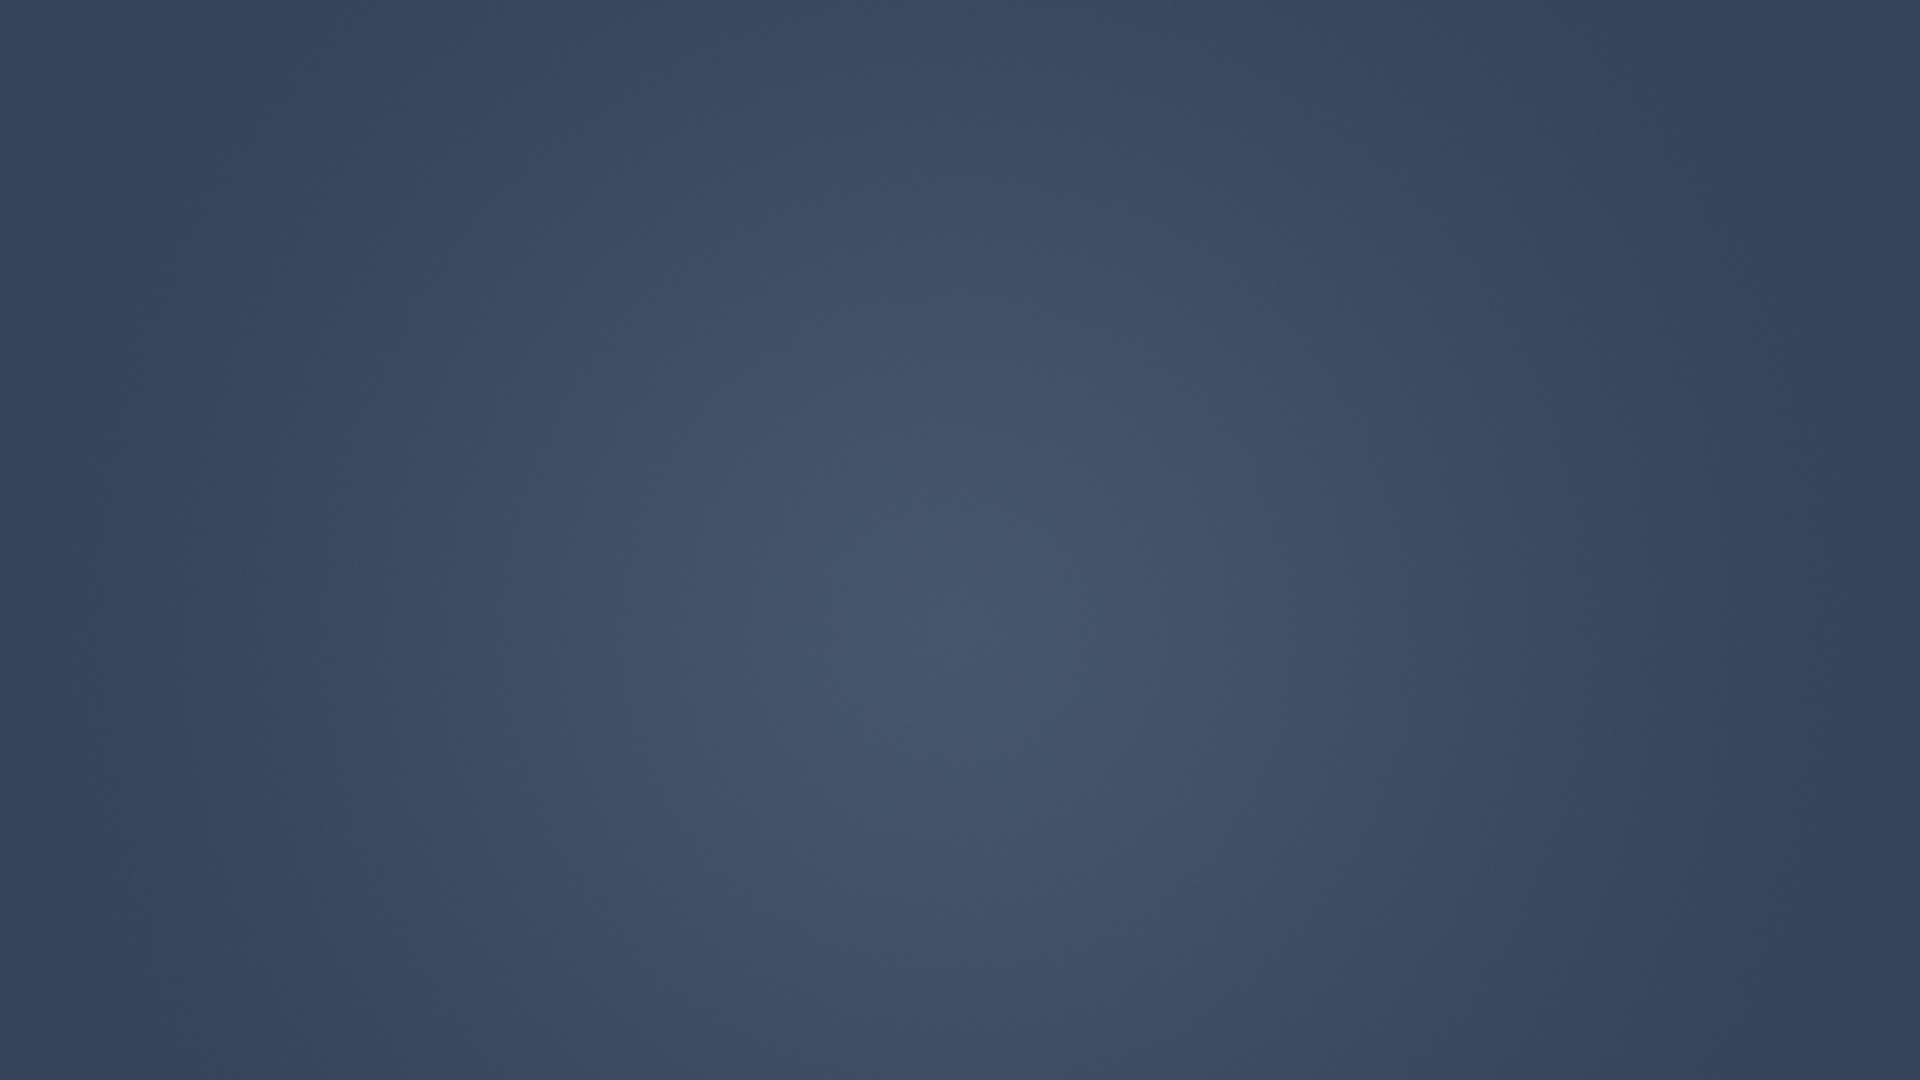
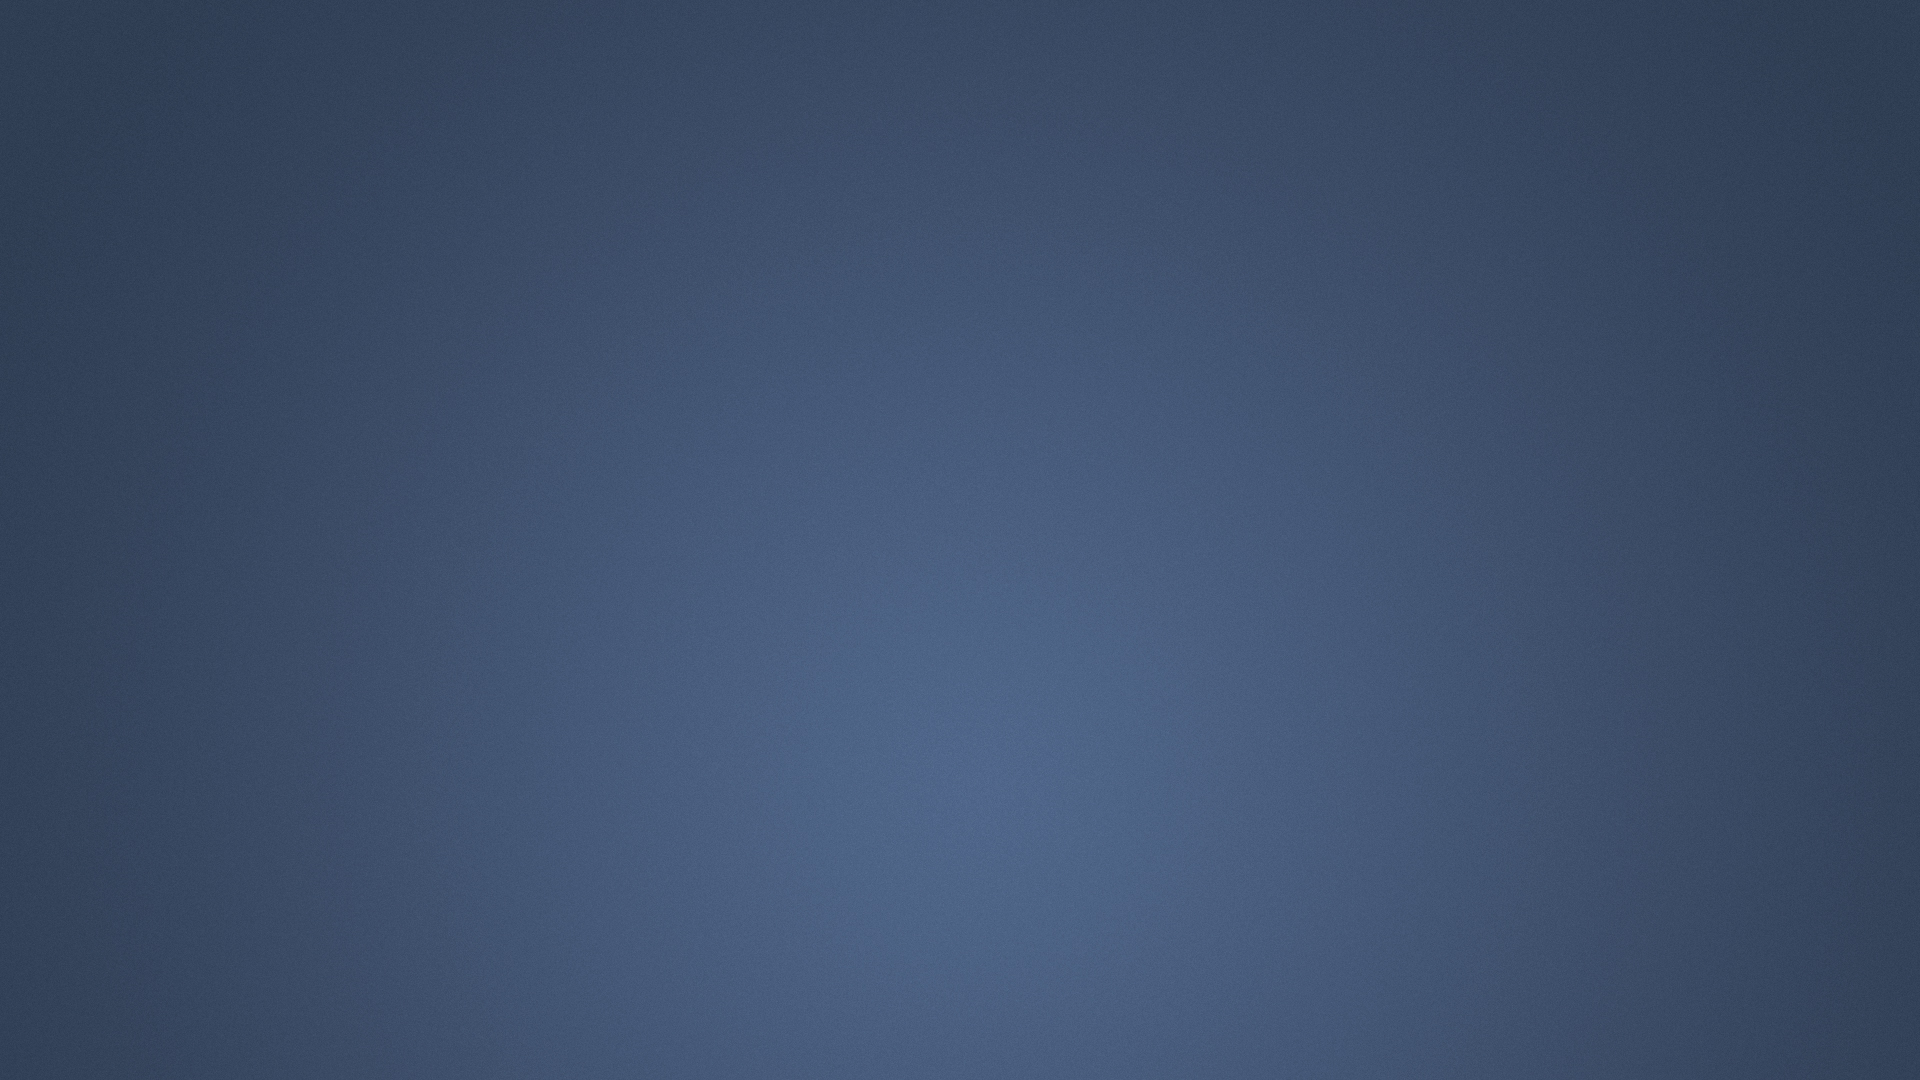
footer edited

Changed region(s): [[0.3125, 0.4889, 0.7188, 1.0]]

diff --git a/css/footer.css b/css/footer.css
@@ -3,9 +3,6 @@
 
 
 
-#pageFooter {
-	
-}
 
 
 #pageFooterSlider {
@@ -39,10 +36,10 @@
 	background-color: #bababa;
 	background-image: url('../img/footerButtonBack.jpg');   
 	background-repeat: repeat-x;
-	
+	/*
 	-moz-box-shadow:    0px 0px 1px #3d3d3d;
 	-webkit-box-shadow: 0px 0px 1px #3d3d3d;
-	box-shadow:         0px 0px 1px #3d3d3d;
+	box-shadow:         0px 0px 1px #3d3d3d;*/
 }
 
 #pageFooterSliderButton:hover {
@@ -54,9 +51,8 @@
 	height: 300px;
 	width: 100%;
 	
-	-moz-box-shadow:    0px 0px 10px #3d3d3d;
-	-webkit-box-shadow: 0px 0px 10px #3d3d3d;
-	box-shadow:         0px 0px 10px #3d3d3d;
+
+	
 	
 	background: #949494; /* Old browsers */
 	background: -moz-linear-gradient(top,  #a9a9a9 8%, #5b5b5b 100%); /* FF3.6+ */
@@ -107,7 +103,17 @@
 }
 
 
-#pageFooterContent {
+
+
+
+
+
+
+
+
+
+
+#pageFooter {
 	position: fixed;
 	left: 0;
 	right: 0;
@@ -116,21 +122,24 @@
 	font-weight: 300px;
 	line-height: 30px;
 	letter-spacing: 0.2px;
-	
 	background-image: url('../img/footerBack.gif');
-	
-	/*
-	-moz-box-shadow:    0px 0px 6px #3d3d3d;
-	-webkit-box-shadow: 0px 0px 6px #3d3d3d;
-	box-shadow:         0px 0px 6px #3d3d3d;
-	*/
 	z-index: 15;
-	
 	text-align: center;
-	
+	-moz-box-shadow:    0px 2px 7px #1d1d1d;
+	-webkit-box-shadow: 0px 2px 7px #1d1d1d;
+	box-shadow:         0px 2px 7px #1d1d1d;
 }
 
-#pageFooterContent p {
+#pageFooter a {
+	color: #3b4555;
+}
+
+#pageFooter a:hover {
+	color: #b1bcce;
+}
+
+
+#pageFooter p {
 	color: #3b4555;
 }
 

diff --git a/css/main.css b/css/main.css
@@ -11,28 +11,10 @@ html {
 }
 
 body {
-	/* fallback */ 
 	background-color: #ddd;
-	
-	
-	/* Safari 4-5, Chrome 1-9 */ 
-	/* Can't specify a percentage size? Laaaaaame. */ 
-	/* background: -webkit-gradient(radial, center center, 0, center center, 460, from(#ddd), to(#ccc)); */
-	
-	/* Safari 5.1+, Chrome 10+ */ 
-	/*
-	background: -webkit-radial-gradient(circle, #eee, #b0b0b0);
-	
-	/* Firefox 3.6+ */ 
-	/*background: -moz-radial-gradient(circle, #eee, #b0b0b0);
-	
-	/* IE 10 */ 
-	/*background: -ms-radial-gradient(circle, #eee, #b0b0b0);
-	*/
-	
 	background-image: url('../img/background.jpg');
-	
-	/* Opera cannot do radial gradients yet */
+	background-position: top center;
+	background-repeat: no-repeat;
 }
 
 h1 {

diff --git a/parts/footer.php b/parts/footer.php
@@ -1,37 +1,36 @@
-<footer id="pageFooter">
-	<div id="pageFooterSlider">
-		<div id="pageFooterSliderButton"></div>
-		<div id="pageFooterSliderContent">
-			<div class="wrapper">
-				<div id="pageFooterLeft">
-					<h2>Kennenlernen</h2>
-					<p>AFFE</p>
-				</div>
-				<div id="pageFooterMiddle">
-					<h2>Mitmachen</h2>
-					<p>Lorem ipsum dolor sit amet, consectetur adipisici elit. Lorem ipsum dolor sit amet, consectetur adipisici elit. Lorem ipsum dolor sit amet, consectetur adipisici elit. Lorem ipsum dolor sit amet, consectetur adipisici elit. Lorem ipsum dolor sit amet, consectetur adipisici elit.</p>
-				</div>
-				<div id="pageFooterRight">
-					<h2>Empfehlen</h2>
-					<p>AFFE</p>
+		<!-- PAGE SLIDER-BOX [BEGIN] -->
+		<div id="pageFooterSlider">
+			<div id="pageFooterSliderButton"></div>
+			<div id="pageFooterSliderContent">
+				<div class="wrapper">
+					<div id="pageFooterLeft">
+						<h2>Kennenlernen</h2>
+						<p>AFFE</p>
+					</div>
+					<div id="pageFooterMiddle">
+						<h2>Mitmachen</h2>
+						<p>Lorem ipsum dolor sit amet, consectetur adipisici elit. Lorem ipsum dolor sit amet, consectetur adipisici elit. Lorem ipsum dolor sit amet, consectetur adipisici elit. Lorem ipsum dolor sit amet, consectetur adipisici elit. Lorem ipsum dolor sit amet, consectetur adipisici elit.</p>
+					</div>
+					<div id="pageFooterRight">
+						<h2>Empfehlen</h2>
+						<p>AFFE</p>
+					</div>
 				</div>
 			</div>
 		</div>
-	</div>
-	<div id="pageFooterContent">
-
-		<p>© 2012 DHBW Mosbach – All Rights reserved</p>
-
+		<!-- PAGE SLIDER-BOX [END] -->
+	
+		<!-- PAGE FOOTER [BEGIN] -->
+		<footer id="pageFooter">
+			<p>© 2012 <a href="http://www.dhbw-mosbach.de/" target="_blank">DHBW Mosbach</a> – All Rights reserved</p>
 			<ul id="footerNav">
 				<li><a href="">Kontakt</a></li>
 				<li><a href="">Datenschutz</a></li>
 				<li><a href="">Impressum</a></li>
 				<li class="overProject"><a href="">Über das Projekt</a></li>
 			</ul>
-			
-			
-	</div>
-</footer>
+		</footer>
+		<!-- PAGE FOOTER [END] -->
 
 </body>
 </html>

diff --git a/portrait.php b/portrait.php
@@ -41,7 +41,7 @@
 				</hgroup>
 					<p>Lorem ipsum dolor sit amet, consetetur sadipscing elitr, sed diam nonumy eirmod tempor invidunt ut labore et dolore magna aliquyam erat, sed diam voluptua. At vero eos et accusam et justo duo dolores et ea rebum. Stet clita kasd gubergren, no sea takimata sanctus est Lorem ipsum dolor sit amet.</p>
 				</div>
-			</li>>
+			</li>
 			
 		</ul>
 		
